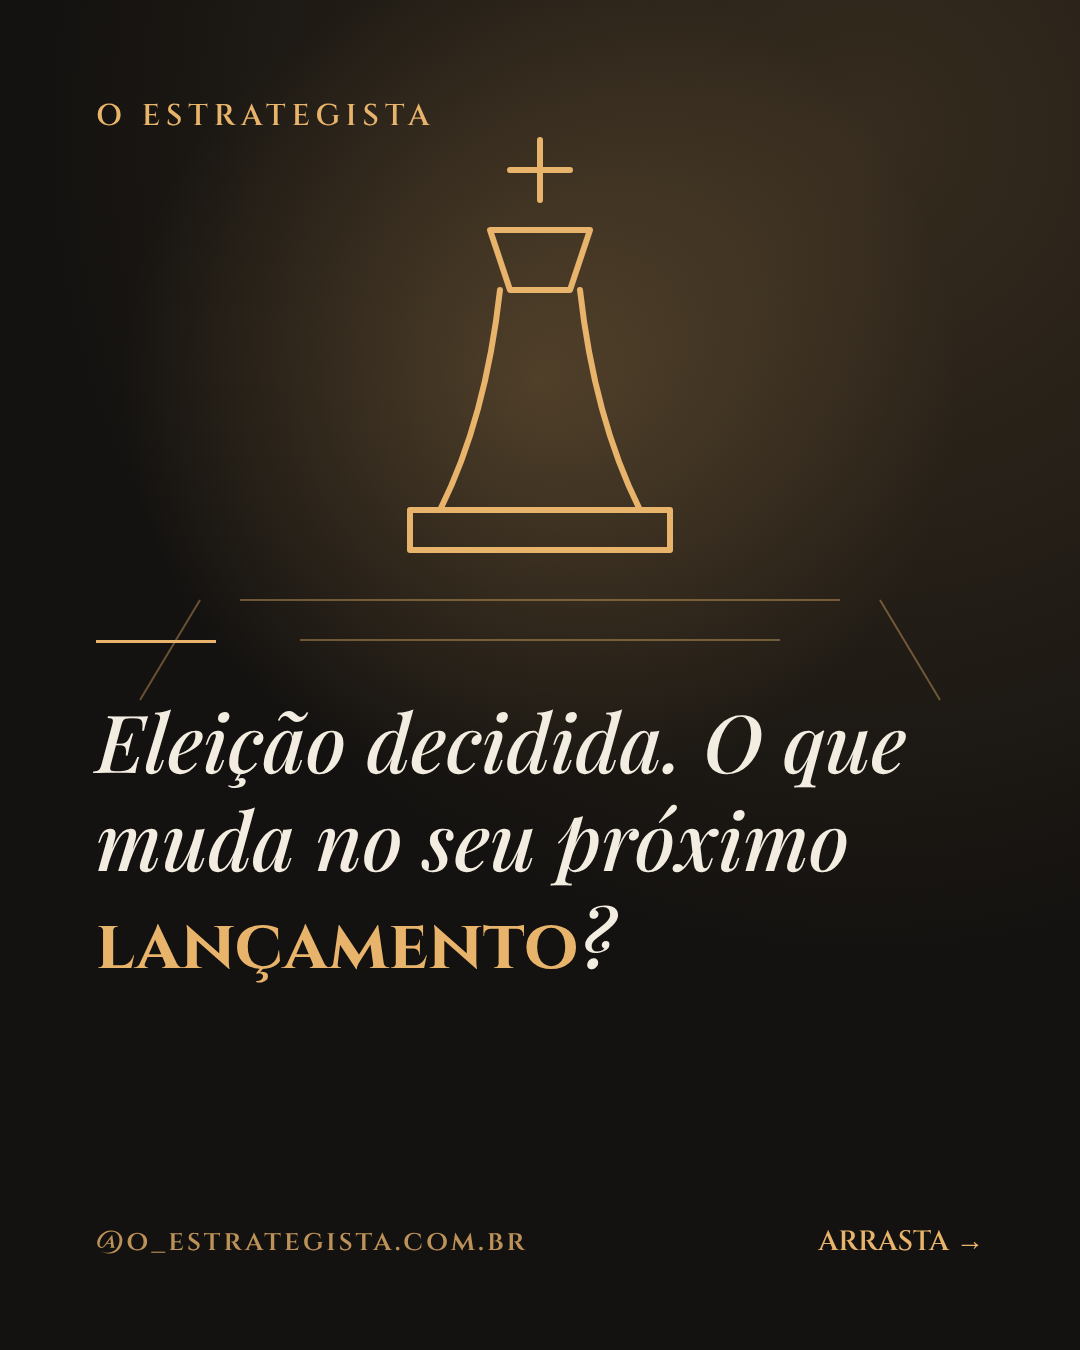
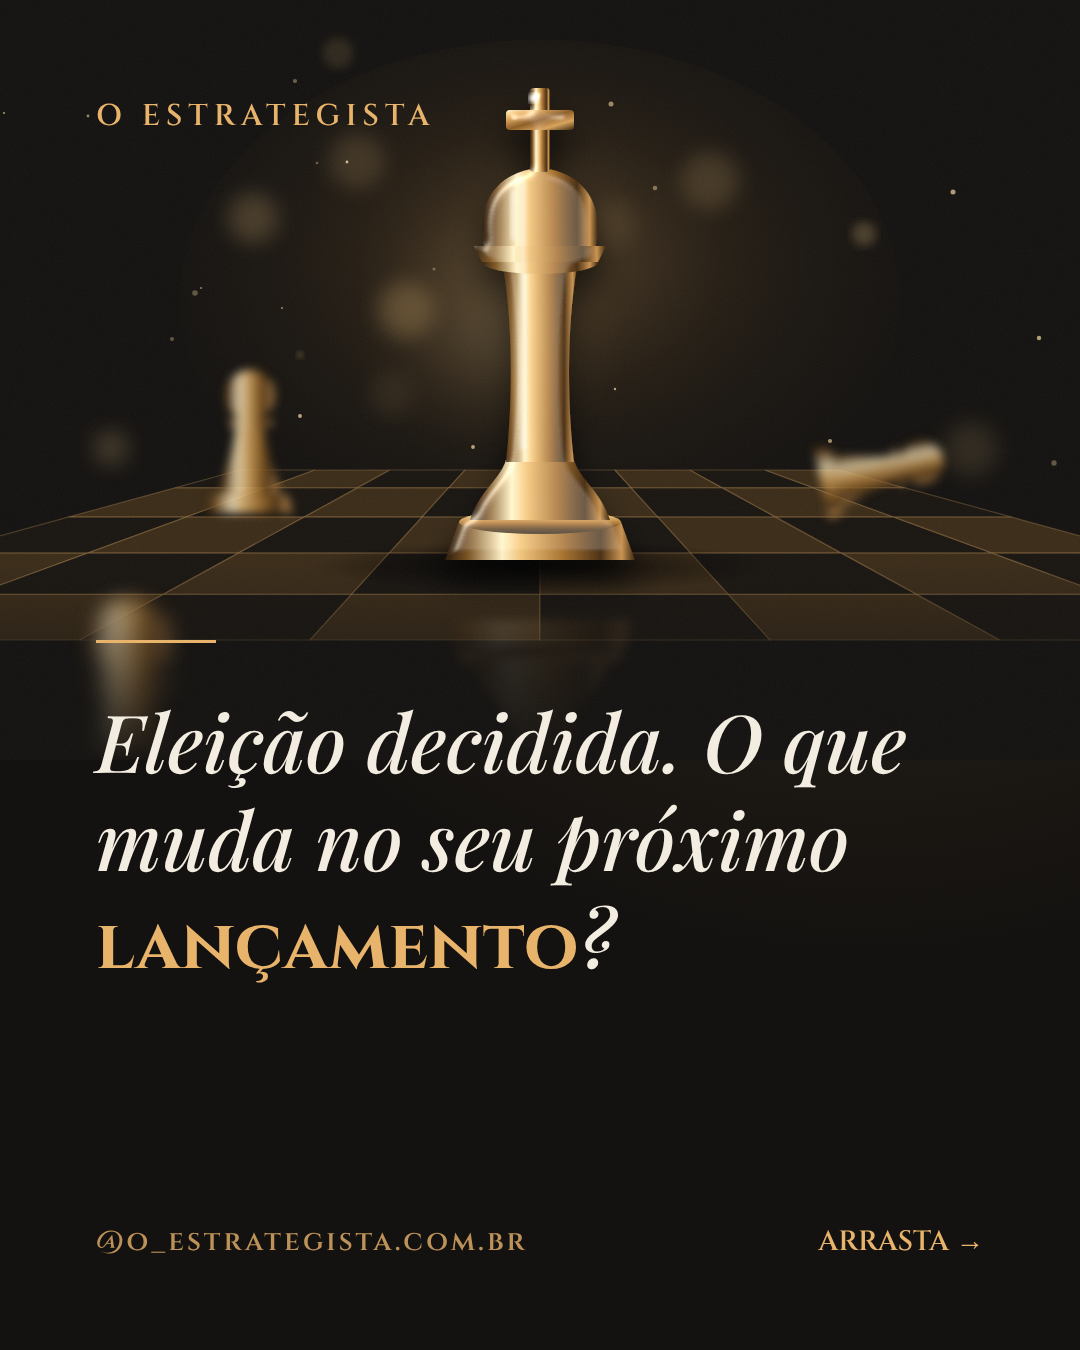
Carrossel da eleição com ilustrações em ouro 3D
Claude-Session: https://claude.ai/code/session_01D6NtRh1ZFd58NJkYdfc4eK

diff --git a/estaticos/carrossel-eleicao/c.html b/estaticos/carrossel-eleicao/c.html
@@ -11,7 +11,109 @@ background:radial-gradient(circle at 80% 10%,rgba(232,179,106,.16),transparent 5
 .c .t{font-size:80px}.a{position:absolute;bottom:90px;left:96px;font:600 28px Cinzel;color:#E8B36A;opacity:.8;letter-spacing:3px}
 .p{position:absolute;bottom:90px;right:96px;font:600 28px Cinzel;color:#E8B36A}
 </style><div id=s></div><script>
-const SV=["<path fill=\"none\" stroke=\"#E8B36A\" stroke-width=\"6\" stroke-linecap=\"round\" stroke-linejoin=\"round\" d=\"M540 140v60M510 170h60M490 230h100l-20 60h-60zM500 290c-10 90-30 160-60 220h200c-30-60-50-130-60-220M410 510h260v40H410z\"/><path stroke=\"#E8B36A\" stroke-width=\"2\" opacity=\".4\" d=\"M240 600h600M300 640h480M200 600l-60 100M880 600l60 100\"/>", "<path fill=\"none\" stroke=\"#E8B36A\" stroke-width=\"6\" stroke-linecap=\"round\" stroke-linejoin=\"round\" d=\"M540 470V330M540 380c-60-10-90-60-80-110 60 0 90 40 80 110M540 350c50-20 70-70 60-110-50 10-70 50-60 110\"/><path fill=\"none\" stroke=\"#E8B36A\" stroke-width=\"6\" stroke-linecap=\"round\" stroke-linejoin=\"round\" d=\"M330 420c40 120 120 170 210 170s170-50 210-170M330 420c-20-40 10-70 40-50l60 90M750 420c20-40-10-70-40-50l-60 90\"/>", "<path fill=\"none\" stroke=\"#E8B36A\" stroke-width=\"6\" stroke-linecap=\"round\" stroke-linejoin=\"round\" d=\"M260 520V300c60-30 130-30 190 0v220c-60-30-130-30-190 0zM450 300c60-30 130-30 190 0v220c-60-30-130-30-190 0\"/><path fill=\"none\" stroke=\"#E8B36A\" stroke-width=\"6\" stroke-linecap=\"round\" stroke-linejoin=\"round\" d=\"M700 520l60-80 50 40 70-120M840 360h40v40\"/><path fill=\"none\" stroke=\"#E8B36A\" stroke-width=\"6\" stroke-linecap=\"round\" stroke-linejoin=\"round\" d=\"M780 260c-20-30-70-20-60 20 10 30 60 60 60 60s50-30 60-60c10-40-40-50-60-20z\"/>", "<rect x=\"420\" y=\"190\" width=\"240\" height=\"420\" rx=\"30\" fill=\"none\" stroke=\"#E8B36A\" stroke-width=\"6\" stroke-linecap=\"round\" stroke-linejoin=\"round\"/><path fill=\"none\" stroke=\"#E8B36A\" stroke-width=\"6\" stroke-linecap=\"round\" stroke-linejoin=\"round\" d=\"M500 340c0-40 80-50 80 0 0 40-40 40-40 80M540 470v4\"/><path fill=\"none\" stroke=\"#E8B36A\" stroke-width=\"6\" stroke-linecap=\"round\" stroke-linejoin=\"round\" opacity=\".5\" d=\"M360 300l-50-20M360 380h-60M720 300l50-20M720 380h60\"/>", "<path fill=\"none\" stroke=\"#E8B36A\" stroke-width=\"6\" stroke-linecap=\"round\" stroke-linejoin=\"round\" d=\"M220 580h160v-80h160v-80h160v-80h120\"/><path fill=\"none\" stroke=\"#E8B36A\" stroke-width=\"6\" stroke-linecap=\"round\" stroke-linejoin=\"round\" d=\"M760 340V160h120v180\"/><circle cx=\"860\" cy=\"260\" r=\"6\" fill=\"#E8B36A\"/><path fill=\"none\" stroke=\"#E8B36A\" stroke-width=\"6\" stroke-linecap=\"round\" stroke-linejoin=\"round\" opacity=\".5\" d=\"M300 470l40-40M460 390l40-40M620 310l40-40\"/>", "<circle cx=\"540\" cy=\"220\" r=\"44\" fill=\"none\" stroke=\"#E8B36A\" stroke-width=\"6\" stroke-linecap=\"round\" stroke-linejoin=\"round\"/><path fill=\"none\" stroke=\"#E8B36A\" stroke-width=\"6\" stroke-linecap=\"round\" stroke-linejoin=\"round\" d=\"M460 380c0-60 40-100 80-100s80 40 80 100\"/><path fill=\"none\" stroke=\"#E8B36A\" stroke-width=\"6\" stroke-linecap=\"round\" stroke-linejoin=\"round\" d=\"M400 400h280\"/><circle cx=\"300\" cy=\"510\" r=\"26\" fill=\"none\" stroke=\"#E8B36A\" stroke-width=\"6\" stroke-linecap=\"round\" stroke-linejoin=\"round\"/><path fill=\"none\" stroke=\"#E8B36A\" stroke-width=\"6\" stroke-linecap=\"round\" stroke-linejoin=\"round\" d=\"M255 600c0-40 20-60 45-60s45 20 45 60\"/><circle cx=\"420\" cy=\"510\" r=\"26\" fill=\"none\" stroke=\"#E8B36A\" stroke-width=\"6\" stroke-linecap=\"round\" stroke-linejoin=\"round\"/><path fill=\"none\" stroke=\"#E8B36A\" stroke-width=\"6\" stroke-linecap=\"round\" stroke-linejoin=\"round\" d=\"M375 600c0-40 20-60 45-60s45 20 45 60\"/><circle cx=\"540\" cy=\"510\" r=\"26\" fill=\"none\" stroke=\"#E8B36A\" stroke-width=\"6\" stroke-linecap=\"round\" stroke-linejoin=\"round\"/><path fill=\"none\" stroke=\"#E8B36A\" stroke-width=\"6\" stroke-linecap=\"round\" stroke-linejoin=\"round\" d=\"M495 600c0-40 20-60 45-60s45 20 45 60\"/><circle cx=\"660\" cy=\"510\" r=\"26\" fill=\"none\" stroke=\"#E8B36A\" stroke-width=\"6\" stroke-linecap=\"round\" stroke-linejoin=\"round\"/><path fill=\"none\" stroke=\"#E8B36A\" stroke-width=\"6\" stroke-linecap=\"round\" stroke-linejoin=\"round\" d=\"M615 600c0-40 20-60 45-60s45 20 45 60\"/><circle cx=\"780\" cy=\"510\" r=\"26\" fill=\"none\" stroke=\"#E8B36A\" stroke-width=\"6\" stroke-linecap=\"round\" stroke-linejoin=\"round\"/><path fill=\"none\" stroke=\"#E8B36A\" stroke-width=\"6\" stroke-linecap=\"round\" stroke-linejoin=\"round\" d=\"M735 600c0-40 20-60 45-60s45 20 45 60\"/>", "<path fill=\"none\" stroke=\"#E8B36A\" stroke-width=\"6\" stroke-linecap=\"round\" stroke-linejoin=\"round\" d=\"M300 220h300a40 40 0 0 1 40 40v140a40 40 0 0 1-40 40H420l-70 60v-60h-50a40 40 0 0 1-40-40V260a40 40 0 0 1 40-40z\"/><path fill=\"none\" stroke=\"#E8B36A\" stroke-width=\"6\" stroke-linecap=\"round\" stroke-linejoin=\"round\" d=\"M340 300h220M340 360h160\"/><rect x=\"680\" y=\"300\" width=\"200\" height=\"220\" rx=\"20\" fill=\"none\" stroke=\"#E8B36A\" stroke-width=\"6\" stroke-linecap=\"round\" stroke-linejoin=\"round\"/><path fill=\"none\" stroke=\"#E8B36A\" stroke-width=\"6\" stroke-linecap=\"round\" stroke-linejoin=\"round\" d=\"M680 360h200M730 280v40M830 280v40M720 420h30M790 420h30M720 470h30\"/>"];const I=['f1.jpg','f5.jpg','f3.jpg','f2.jpg','f4.jpg','f5.jpg','f1.jpg'];const L=[
+const DEFS=`
+<linearGradient id=gH x1=0 x2=1><stop offset=0 stop-color='#2a1a0a'/><stop offset=.12 stop-color='#7a5220'/><stop offset=.3 stop-color='#fff1c9'/><stop offset=.4 stop-color='#f0c47c'/><stop offset=.62 stop-color='#a8732e'/><stop offset=.82 stop-color='#4a2f12'/><stop offset=.93 stop-color='#c99350'/><stop offset=1 stop-color='#3a240c'/></linearGradient>
+<linearGradient id=gV x1=0 y1=0 x2=0 y2=1><stop offset=0 stop-color='#fff3d2'/><stop offset=.25 stop-color='#efc27a'/><stop offset=.55 stop-color='#b07a35'/><stop offset=.8 stop-color='#5c3b16'/><stop offset=1 stop-color='#2b1b0a'/></linearGradient>
+<linearGradient id=gD x1=0 y1=0 x2=1 y2=1><stop offset=0 stop-color='#fff0c6'/><stop offset=.2 stop-color='#E8B36A'/><stop offset=.5 stop-color='#8d5d24'/><stop offset=.75 stop-color='#d9a45c'/><stop offset=1 stop-color='#3d270e'/></linearGradient>
+<linearGradient id=gDark x1=0 y1=0 x2=0 y2=1><stop offset=0 stop-color='#2c241b'/><stop offset=1 stop-color='#0c0a08'/></linearGradient>
+<radialGradient id=amb cx=.5 cy=.42 r=.6><stop offset=0 stop-color='#E8B36A' stop-opacity='.30'/><stop offset=.45 stop-color='#b07a35' stop-opacity='.10'/><stop offset=1 stop-color='#141210' stop-opacity='0'/></radialGradient>
+<radialGradient id=hot><stop offset=0 stop-color='#fff6dc' stop-opacity='1'/><stop offset=.25 stop-color='#f5cf8a' stop-opacity='.7'/><stop offset=1 stop-color='#E8B36A' stop-opacity='0'/></radialGradient>
+<radialGradient id=sh><stop offset=0 stop-color='#000' stop-opacity='.85'/><stop offset=1 stop-color='#000' stop-opacity='0'/></radialGradient>
+<linearGradient id=fade x1=0 y1=0 x2=0 y2=1><stop offset=0 stop-color='#141210' stop-opacity='0'/><stop offset=1 stop-color='#141210'/></linearGradient>
+<linearGradient id=spec x1=0 x2=1><stop offset=0 stop-color='#fff' stop-opacity='0'/><stop offset=.5 stop-color='#fff' stop-opacity='.85'/><stop offset=1 stop-color='#fff' stop-opacity='0'/></linearGradient>
+<filter id=ds x=-30% y=-30% width=160% height=170%><feDropShadow dx=0 dy=22 stdDeviation=16 flood-color='#000' flood-opacity='.75'/></filter>
+<filter id=gl x=-50% y=-50% width=200% height=200%><feGaussianBlur stdDeviation=10 result=b/><feMerge><feMergeNode in=b/><feMergeNode in=SourceGraphic/></feMerge></filter>
+<filter id=bloom x=-80% y=-80% width=260% height=260%><feGaussianBlur stdDeviation=26/></filter>
+<filter id=b2><feGaussianBlur stdDeviation=2.2/></filter><filter id=b5 x=-20% y=-20% width=140% height=140%><feGaussianBlur stdDeviation=5/></filter><filter id=b10 x=-40% y=-40% width=180% height=180%><feGaussianBlur stdDeviation=10/></filter>
+<filter id=tex x=0 y=0 width=100% height=100%><feTurbulence type=fractalNoise baseFrequency='.012 .6' numOctaves=2 seed=4/><feColorMatrix values='0 0 0 0 1  0 0 0 0 .9  0 0 0 0 .7  0 0 0 .22 0'/><feComposite in2=SourceGraphic operator=in/></filter>
+<filter id=grain x=0 y=0 width=100% height=100%><feTurbulence type=fractalNoise baseFrequency='.85' numOctaves=2 seed=7 stitchTiles=stitch/><feColorMatrix type=saturate values=0/><feComponentTransfer><feFuncA type=table tableValues='0 .09'/></feComponentTransfer></filter>
+<filter id=lit x=-10% y=-10% width=120% height=120%><feGaussianBlur in=SourceAlpha stdDeviation=5 result=a/><feSpecularLighting in=a surfaceScale=6 specularConstant=1 specularExponent=28 lighting-color='#fff4d8' result=s><feDistantLight azimuth=235 elevation=48/></feSpecularLighting><feComposite in=s in2=SourceAlpha operator=in result=s2/><feComposite in=SourceGraphic in2=s2 operator=arithmetic k2=1 k3=.55/></filter>`;
+// reusable bits
+const R=(s)=>{let x=s;return()=>{x=(x*9301+49297)%233280;return x/233280}};
+function bokeh(seed,n){const r=R(seed);let o='';for(let k=0;k<n;k++){const x=r()*1080,y=40+r()*560,s=4+r()*26,a=.08+r()*.22;o+=`<circle cx=${x|0} cy=${y|0} r=${s|0} fill='#f3c983' opacity=${a.toFixed(2)} filter='url(#b${s>16?10:s>9?5:2})'/>`}
+ for(let k=0;k<n*2;k++){const x=r()*1080,y=60+r()*560;o+=`<circle cx=${x|0} cy=${y|0} r=${(1+r()*1.8).toFixed(1)} fill='#ffe2a8' opacity=${(.3+r()*.6).toFixed(2)}/>`}return o}
+const floor=(cx,cy,rx,ry)=>`<ellipse cx=${cx} cy=${cy} rx=${rx} ry=${ry} fill='url(#sh)'/>`;
+const spec=(x,y,w,h,o=.8)=>`<rect x=${x} y=${y} width=${w} height=${h} rx=${w/2} fill='url(#spec)' opacity=${o} filter='url(#b2)'/>`;
+// 1 king on board
+function board(){let o='';const top=470,bot=640,vx=540;const N=8;for(let r=0;r<5;r++){const t0=r/5,t1=(r+1)/5;const y0=top+(bot-top)*Math.pow(t0,1.4),y1=top+(bot-top)*Math.pow(t1,1.4);const w0=300+620*Math.pow(t0,1.4),w1=300+620*Math.pow(t1,1.4);for(let c=0;c<N;c++){const a=x=>vx-w0+2*w0*x/N,b=x=>vx-w1+2*w1*x/N;const d=(r+c)%2;o+=`<polygon points='${a(c)},${y0} ${a(c+1)},${y0} ${b(c+1)},${y1} ${b(c)},${y1}' fill='${d?'#3b2c19':'#191511'}' stroke='#E8B36A' stroke-opacity='.25' stroke-width='1.2'/>`}}return o}
+function king(x,s,blur){const g=`<g transform='translate(${x} 0) scale(${s})' ${blur?`filter='url(#${blur})'`:''}>`;return g+`
+<path d='M-95 560h190l-14-38h-162z' fill='url(#gH)'/><ellipse cx=0 cy=522 rx=81 ry=12 fill='url(#gV)'/>
+<path d='M-70 520c10-30 30-40 36-60h68c6 20 26 30 36 60z' fill='url(#gH)'/>
+<path d='M-34 462c8-70 6-150-4-200h76c-10 50-12 130-4 200z' fill='url(#gH)'/>
+<ellipse cx=0 cy=262 rx=58 ry=12 fill='url(#gH)'/><path d='M-58 262l-8-16h132l-8 16z' fill='url(#gH)'/>
+<path d='M-56 246c-8-40 10-74 56-78 46 4 64 38 56 78z' fill='url(#gH)'/>
+<rect x=-10 y=88 width=20 height=84 rx=4 fill='url(#gH)'/><rect x=-34 y=110 width=68 height=20 rx=4 fill='url(#gD)'/>
+${spec(-22,180,10,270,.65)}${spec(-30,190,6,50,.9)}<circle cx=-6 cy=98 r=5 fill='#fff' filter='url(#b2)'/></g>`}
+const S1=()=>`<ellipse cx=540 cy=300 rx=360 ry=260 fill='url(#amb)'/>${board()}${floor(540,566,230,26)}
+<g filter='url(#b5)' opacity=.85><g transform='translate(250 205) scale(.55)'>${pawnS()}</g></g><g filter='url(#b5)' opacity=.75><g transform='translate(840 230) scale(.48) rotate(78 0 520)'>${pawnS()}</g></g>
+<g filter='url(#ds)'>${king(540,1,'lit')}</g>
+<g transform='translate(540 1180) scale(1 -1)' opacity=.18 filter='url(#b5)'>${king(0,1)}</g>
+<circle cx=490 cy=330 r=120 fill='url(#hot)' opacity=.18 filter='url(#bloom)'/>
+<g filter='url(#b10)' opacity=.9><g transform='translate(130 330) scale(.9)'>${pawnS()}</g></g>`;
+function pawnS(){return `<path d='M-80 560h160l-12-34h-136z' fill='url(#gH)'/><path d='M-56 526c14-50 30-90 30-130h52c0 40 16 80 30 130z' fill='url(#gH)'/><ellipse cx=0 cy=396 rx=44 ry=10 fill='url(#gH)'/><circle cx=0 cy=346 r=46 fill='url(#gH)'/>${spec(-24,320,8,50,.7)}`}
+// 2 hands + sprout
+const hand=(m)=>`<g transform='${m}'><path d='M540 600c-120 0-230-40-280-150-18-40-10-80 18-90 26-10 46 8 60 40l30 60c20-20 50-24 74-8 10-24 40-34 64-20 20-18 52-12 64 10 12 30 6 90-30 158z' fill='url(#gDark)'/>
+<path d='M540 600c-120 0-230-40-280-150-18-40-10-80 18-90 26-10 46 8 60 40l30 60' fill=none stroke='url(#gV)' stroke-width=4 stroke-linecap=round filter='url(#gl)'/>
+<path d='M402 452c20-20 50-24 74-8 10-24 40-34 64-20' fill=none stroke='#E8B36A' stroke-opacity=.55 stroke-width=2.5 /></g>`;
+const leaf=(d)=>`<path d='${d}' fill='url(#gD)' stroke='#fff0c6' stroke-opacity=.5 stroke-width=1.5 filter='url(#lit)'/>`;
+const S2=()=>`<ellipse cx=540 cy=330 rx=380 ry=280 fill='url(#amb)'/><circle cx=540 cy=300 r=170 fill='url(#hot)' opacity=.35 filter='url(#bloom)'/>
+<ellipse cx=540 cy=470 rx=150 ry=34 fill='#2a1d10'/><ellipse cx=540 cy=462 rx=140 ry=26 fill='url(#gDark)'/>
+<path d='M540 466c-4-60 0-120 4-170' stroke='url(#gH)' stroke-width=11 fill=none stroke-linecap=round filter='url(#lit)'/>
+${leaf('M542 360c-30 6-110-6-140-90 70-20 132 20 140 90z')}${leaf('M546 318c18-60 80-104 150-92-6 78-80 110-150 92z')}${leaf('M545 300c-14-40 0-90 22-110 26 30 22 86-22 110z')}
+<path d='M540 352c-40-12-80-40-112-76M550 312c40-26 80-56 132-78' stroke='#5a3a14' stroke-width=2 fill=none opacity=.7/>
+<g filter='url(#ds)'>${hand('')}${hand('translate(1080 0) scale(-1 1)')}</g>
+<path d='M300 560c80 40 400 40 480 0' stroke='#E8B36A' stroke-opacity=.25 stroke-width=2 fill=none filter='url(#b2)'/>`;
+// 3 book, chart, heart
+const S3=()=>{let bars='';[[620,90],[690,140],[760,200],[830,280]].forEach(([x,h],k)=>{bars+=`<g filter='url(#ds)'><path d='M${x} ${520-h}h44l14-10v${h}l-14 10z' fill='#5c3b16'/><path d='M${x} ${520-h}l14-10h44l-14 10z' fill='#fff0c6' opacity=.9/><rect x=${x} y=${520-h} width=44 height=${h} fill='url(#gH)'/>${spec(x+10,530-h,5,h-20,.6)}</g>`});
+let lines='';for(let k=0;k<7;k++){lines+=`<path d='M${238+0} ${330+k*24}c50-18 110-18 170 0' stroke='#6b4718' stroke-width=4 opacity=.55 fill=none/><path d='M${452} ${330+k*24}c60-18 120-18 170 0' stroke='#6b4718' stroke-width=4 opacity=.55 fill=none/>`}
+return `<ellipse cx=540 cy=340 rx=420 ry=280 fill='url(#amb)'/>${floor(440,540,280,30)}
+<g filter='url(#ds)'><path d='M200 540V300c90-40 170-40 240 0 70-40 150-40 240 0v240c-90-34-170-34-240 4-70-38-150-38-240-4z' fill='#3a250e'/>
+<path d='M214 520V290c80-36 150-36 226 4v230c-76-38-146-38-226-4z' fill='url(#gV)'/><path d='M440 294c76-40 146-40 226-4v230c-80-34-150-34-226 4z' fill='url(#gV)'/>
+<path d='M440 294v230' stroke='#3a250e' stroke-width=6/><path d='M430 300v226' stroke='#fff3d2' stroke-width=3 opacity=.6 filter='url(#b2)'/>
+<rect x=214 y=280 width=452 height=250 fill='url(#gV)' filter='url(#tex)' opacity=.6/>${lines}</g>
+<circle cx=440 cy=290 r=90 fill='url(#hot)' opacity=.5 filter='url(#bloom)'/>
+${bars}<path d='M600 470l90-70 70 30 110-150' stroke='#fff3d2' stroke-width=8 fill=none stroke-linecap=round stroke-linejoin=round filter='url(#gl)'/><path d='M842 266l42-14-6 44z' fill='#fff3d2' filter='url(#gl)'/>
+<g transform='translate(150 230) rotate(-12) scale(.9)' filter='url(#ds)'><circle cx=0 cy=40 r=70 fill='url(#hot)' opacity=.5 filter='url(#bloom)'/><path d='M0 90C-60 50-80 20-80-4c0-30 22-48 44-48 18 0 30 10 36 24 6-14 18-24 36-24 22 0 44 18 44 48 0 24-20 54-80 94z' fill='url(#gD)' filter='url(#lit)'/>${spec(-58,-30,8,40,.8)}</g>
+<g filter='url(#b10)' opacity=.7><circle cx=930 cy=180 r=26 fill='#E8B36A'/></g>`};
+// 4 phone
+const S4=()=>`<ellipse cx=540 cy=330 rx=400 ry=290 fill='url(#amb)'/>${floor(560,600,200,22)}
+<g transform='rotate(-8 540 380)'><g filter='url(#ds)'><rect x=400 y=110 width=280 height=500 rx=46 fill='url(#gH)'/><rect x=408 y=118 width=264 height=484 rx=40 fill='#3a240c'/>
+<rect x=414 y=124 width=252 height=472 rx=36 fill='#0b0a09'/><rect x=496 y=138 width=88 height=22 rx=11 fill='#000'/>
+<rect x=414 y=124 width=252 height=472 rx=36 fill='url(#amb)' opacity=.9/></g>
+<circle cx=540 cy=350 r=120 fill='url(#hot)' opacity=.55 filter='url(#bloom)'/>
+<g filter='url(#gl)'><path d='M490 300c0-40 30-62 52-62 30 0 54 22 54 54 0 44-48 46-48 92' fill=none stroke='url(#gV)' stroke-width=24 stroke-linecap=round/><circle cx=546 cy=436 r=15 fill='#fff0c6'/></g>
+<path d='M430 140l120 0-110 300z' fill='#fff' opacity=.07/><rect x=397 y=230 width=6 height=60 rx=3 fill='#c99350'/><rect x=677 y=200 width=6 height=90 rx=3 fill='#c99350'/>
+${spec(404,160,6,300,.5)}</g>
+<g filter='url(#b5)' opacity=.6><circle cx=300 cy=250 r=36 fill=none stroke='#E8B36A' stroke-width=6/><circle cx=820 cy=200 r=24 fill=none stroke='#E8B36A' stroke-width=5/><circle cx=790 cy=460 r=30 fill=none stroke='#E8B36A' stroke-width=5/></g>
+<g filter='url(#b10)' opacity=.5><circle cx=250 cy=480 r=50 fill=none stroke='#E8B36A' stroke-width=8/></g>`;
+// 5 stairs to door
+const S5=()=>{let st='';for(let k=0;k<6;k++){const x=150+k*105,y=580-k*62,w=430-k*20;st+=`<g><path d='M${x} ${y}h${w}l40-24h-${w}z' fill='url(#gV)'/><rect x=${x} y=${y} width=${w} height=62 fill='url(#gH)'/><path d='M${x+w} ${y}l40-24v62l-40 24z' fill='#3a240c'/><rect x=${x} y=${y} width=${w} height=62 fill='#000' opacity=${(.45-k*.07).toFixed(2)}/>${spec(x+20,y+2,w-60,3,.7)}</g>`}
+return `<ellipse cx=760 cy=200 rx=420 ry=320 fill='url(#amb)'/><path d='M800 80L560 640h560z' fill='#f5cf8a' opacity=.07 filter='url(#b10)'/>
+<circle cx=860 cy=150 r=170 fill='url(#hot)' opacity=.6 filter='url(#bloom)'/>
+<g filter='url(#ds)'><rect x=772 y=20 width=176 height=250 rx=6 fill='url(#gH)'/><rect x=788 y=36 width=144 height=234 fill='#fff6dc'/><rect x=788 y=36 width=144 height=234 fill='url(#hot)'/>
+<path d='M788 36l-60 20v220l60-6z' fill='url(#gD)'/></g>${st}
+<path d='M740 270l-500 380h900z' fill='#fff1c9' opacity=.05/>`};
+// 6 stage + audience
+const head=(x,y,s,f)=>`<g transform='translate(${x} ${y}) scale(${s})' ${f?`filter='url(#${f})'`:''}><path d='M-70 120c0-70 30-100 70-100s70 30 70 100z' fill='#0b0908'/><circle cx=0 cy=-10 r=34 fill='#0b0908'/><path d='M-30 -36a34 34 0 0 1 60 6M-60 60c10-30 30-40 50-40' stroke='#E8B36A' stroke-width=3 fill=none opacity=.7/></g>`;
+const S6=()=>`<ellipse cx=540 cy=300 rx=420 ry=300 fill='url(#amb)'/>
+<path d='M470 0h140l220 520H250z' fill='#f5cf8a' opacity=.12 filter='url(#b10)'/><circle cx=540 cy=0 r=80 fill='url(#hot)' filter='url(#bloom)'/>
+<ellipse cx=540 cy=470 rx=380 ry=50 fill='#2a1f13'/><ellipse cx=540 cy=470 rx=380 ry=50 fill='url(#amb)'/><ellipse cx=540 cy=460 rx=230 ry=26 fill='url(#hot)' opacity=.35/>
+<g filter='url(#ds)'><path d='M380 400h320l-14 22H394z' fill='url(#gV)'/><rect x=394 y=420 width=292 height=14 fill='url(#gH)'/><rect x=420 y=434 width=12 height=40 fill='url(#gH)'/><rect x=648 y=434 width=12 height=40 fill='url(#gH)'/>
+<path d='M470 260h140l10 140H460z' fill='url(#gH)'/><rect x=520 y=230 width=40 height=30 rx=6 fill='url(#gV)'/><circle cx=540 cy=222 r=10 fill='#fff3d2' filter='url(#gl)'/>${spec(488,270,6,110,.6)}</g>
+${head(300,520,.8,'b2')}${head(460,510,.85,'b2')}${head(620,515,.82,'b2')}${head(780,520,.8,'b2')}
+${head(200,600,1.15,'b5')}${head(400,610,1.2,'b5')}${head(620,605,1.2,'b5')}${head(860,600,1.15,'b5')}`;
+// 7 bubble + calendar
+const S7=()=>{let g='';for(let r=0;r<3;r++)for(let c=0;c<4;c++){const hl=r==2&&c==1;g+=`<rect x=${712+c*44} y=${372+r*40} width=30 height=26 rx=5 fill='${hl?'#fff0c6':'#3a240c'}' ${hl?"filter='url(#gl)'":''} opacity=${hl?1:.8}/>`}
+return `<ellipse cx=540 cy=320 rx=420 ry=290 fill='url(#amb)'/>${floor(460,560,240,24)}${floor(800,590,150,18)}
+<g filter='url(#ds)'><path d='M250 170h340a52 52 0 0 1 52 52v170a52 52 0 0 1-52 52H420l-88 70 10-70h-92a52 52 0 0 1-52-52V222a52 52 0 0 1 52-52z' fill='#3a240c' transform='translate(10 14)'/>
+<path d='M250 170h340a52 52 0 0 1 52 52v170a52 52 0 0 1-52 52H420l-88 70 10-70h-92a52 52 0 0 1-52-52V222a52 52 0 0 1 52-52z' fill='url(#gD)' filter='url(#lit)'/>
+${spec(230,190,8,140,.6)}<circle cx=340 cy=308 r=20 fill='#3a240c'/><circle cx=420 cy=308 r=20 fill='#3a240c'/><circle cx=500 cy=308 r=20 fill='#3a240c'/></g>
+<circle cx=420 cy=300 r=150 fill='url(#hot)' opacity=.22 filter='url(#bloom)'/>
+<g filter='url(#ds)' transform='rotate(6 800 440)'><rect x=690 y=300 width=230 height=260 rx=22 fill='url(#gH)'/><rect x=700 y=360 width=210 height=190 rx=14 fill='#1c150e'/><rect x=690 y=300 width=230 height=56 rx=22 fill='url(#gV)'/>
+<rect x=736 y=280 width=14 height=46 rx=7 fill='url(#gH)'/><rect x=860 y=280 width=14 height=46 rx=7 fill='url(#gH)'/>${g}</g>`};
+const SV=[S1,S2,S3,S4,S5,S6,S7];
+function scene(i){return `<defs>${DEFS}</defs><rect width=1080 height=760 fill='#141210'/>${bokeh(i*17+3,14)}${SV[i]()}<rect y=560 width=1080 height=200 fill='url(#fade)'/><rect width=1080 height=760 filter='url(#grain)' opacity=.6/>`.replace(/=([^'"\s>]+)\/>/g,'=$1 />')}
+const I=['f1.jpg','f5.jpg','f3.jpg','f2.jpg','f4.jpg','f5.jpg','f1.jpg'];const L=[
 'Eleição decidida. O que muda no seu próximo <b>lançamento</b>?',
 'Quando o cenário é incerto, o cliente não para de comprar. Ele compra o que protege o <b>futuro</b> dele.',
 'Conhecimento entra nessa lista: faturar mais com o próprio negócio, se organizar, cuidar da saúde para aguentar a <b>pressão</b>.',
@@ -20,5 +122,5 @@ const SV=["<path fill=\"none\" stroke=\"#E8B36A\" stroke-width=\"6\" stroke-line
 'Quem só grita oferta vai sentir o mercado travar. Quem conduz a conversa encontra um público mais <b>atento</b>.',
 'Vai lançar nos próximos 90 dias? Me manda a sua área no <b>direct</b>.'];
 function render(i){document.getElementById('s').className=i==0?'c':'';document.getElementById('s').innerHTML=
-`<svg class=img viewBox='0 0 1080 760'><defs><radialGradient id=g><stop offset=0 stop-color='#E8B36A' stop-opacity='.22'/><stop offset=1 stop-color='#E8B36A' stop-opacity='0'/></radialGradient></defs><circle cx=540 cy=380 r=420 fill='url(#g)'/>${SV[i]}</svg><div class=n>${i==0?'O ESTRATEGISTA':'0'+(i+1)+' / 07'}</div><div class=f></div><div class=t>${L[i]}</div><div class=a>@o_estrategista.com.br</div>${i<6?'<div class=p>ARRASTA →</div>':''}`}
+`<svg class=img viewBox='0 0 1080 760'>${scene(i)}</svg><div class=n>${i==0?'O ESTRATEGISTA':'0'+(i+1)+' / 07'}</div><div class=f></div><div class=t>${L[i]}</div><div class=a>@o_estrategista.com.br</div>${i<6?'<div class=p>ARRASTA →</div>':''}`}
 </script>
